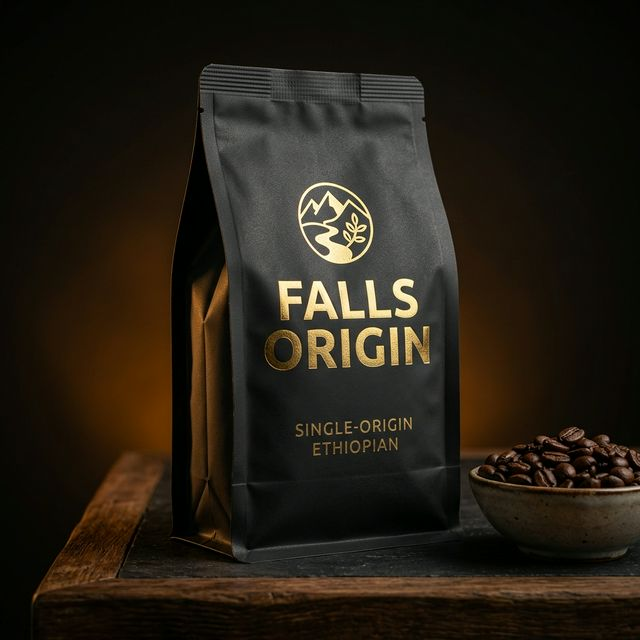
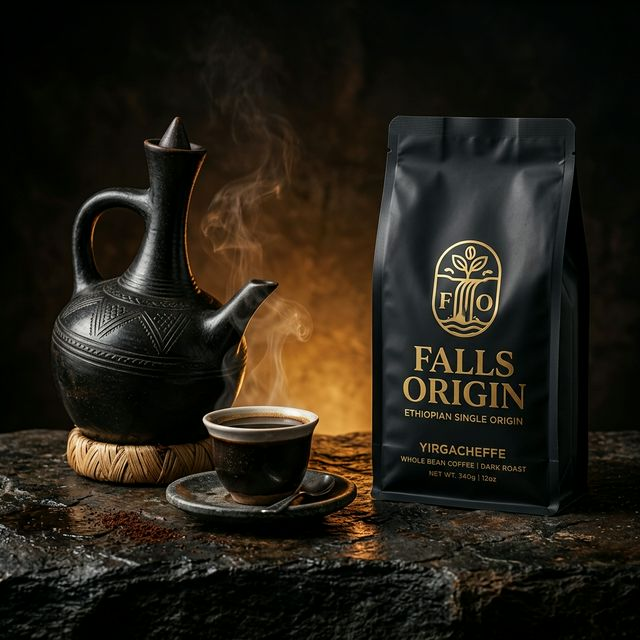
Fix: Overhaul hero section with heritage-premium composite and 2-column responsive layout.

diff --git a/assets/css/premium.css b/assets/css/premium.css
@@ -110,52 +110,64 @@ header {
     z-index: 1000;
 }
 
-/* Hero Section */
+/* Hero Section Refinement - Heritage + Premium Composite */
 .hero-section {
-    min-height: 100vh;
+    min-height: 90vh;
     display: flex;
     align-items: center;
-    padding-top: 80px;
     position: relative;
     overflow: hidden;
+    background-color: #0B0F14;
 }
 
-.hero-bg-image {
+.hero-bg-container {
     position: absolute;
-    top: 0;
-    left: 0;
+    inset: 0;
+    z-index: 0;
+}
+
+.hero-master-img {
     width: 100%;
     height: 100%;
-    background: url('../img/hero-coffee.png') center right/cover no-repeat;
-    z-index: -1;
-    filter: brightness(1.15) contrast(1.1);
-    image-rendering: auto;
+    object-fit: cover;
+    object-position: center;
+    filter: brightness(1.1) contrast(1.05);
+    opacity: 0.95;
 }
 
 .hero-overlay {
     position: absolute;
     inset: 0;
-    background: linear-gradient(to right, #0B0F14 25%, rgba(11, 15, 20, 0.4) 50%, transparent 100%);
-    z-index: 0;
+    background: radial-gradient(circle at 40% 50%, transparent 20%, rgba(11, 15, 20, 0.6) 100%),
+                linear-gradient(to right, #0B0F14 10%, transparent 50%);
+    z-index: 1;
+}
+
+.hero-layout-container {
+    position: relative;
+    z-index: 10;
+    display: flex;
+    align-items: center;
+    justify-content: flex-start;
 }
 
 .hero-content {
-    position: relative;
-    z-index: 10;
-    max-width: 650px;
+    max-width: 580px;
+    padding-right: 2rem;
 }
 
 .hero-actions {
     margin-top: 3rem;
+    display: flex;
+    gap: 1.5rem;
 }
 
 .hero-description {
     color: var(--text-secondary);
-    font-size: 1.25rem;
-    line-height: 1.7;
-    margin-bottom: 0;
-    max-width: 550px;
-    opacity: 0.9;
+    font-size: 1.2rem;
+    line-height: 1.6;
+    max-width: 500px;
+    opacity: 0.85;
 }
 
 /* Product Cards */
@@ -283,15 +295,36 @@ section {
         --section-padding: 4rem 0;
     }
     .display-title {
-        font-size: 2.5rem;
+        font-size: 2.2rem;
     }
     .hero-section {
+        min-height: 70vh;
         text-align: center;
+        padding-top: 100px;
+    }
+    .hero-bg-container {
+        position: relative;
+        height: 300px;
+        order: 2;
+    }
+    .hero-master-img {
+        object-position: center 20%;
     }
     .hero-overlay {
-        background: linear-gradient(to top, #0B0F14 60%, transparent 100%);
+        background: linear-gradient(to top, #0B0F14 20%, transparent 100%),
+                    linear-gradient(to bottom, #0B0F14 10%, transparent 40%);
+    }
+    .hero-layout-container {
+        flex-direction: column;
+        order: 1;
     }
     .hero-content {
         margin: 0 auto;
+        padding-right: 0;
+        max-width: 100%;
+        margin-bottom: 2rem;
+    }
+    .hero-actions {
+        justify-content: center;
     }
 }

diff --git a/index.php b/index.php
@@ -12,10 +12,12 @@ $featuredProduct = $products[0] ?? null;
 
 <!-- Hero Section -->
 <section class="hero-section">
-    <div class="hero-bg-image"></div>
-    <div class="hero-overlay"></div>
+    <div class="hero-bg-container">
+        <img src="assets/img/hero-coffee.png" alt="Falls Origin Heritage" class="hero-master-img">
+        <div class="hero-overlay"></div>
+    </div>
     
-    <div class="container">
+    <div class="container hero-layout-container">
         <div class="hero-content">
             <h1 class="display-title font-serif">
                 <?php echo __('hero_title_1'); ?> <span style="color: var(--accent-gold);"><?php echo __('hero_title_2'); ?></span> <br>
@@ -24,7 +26,7 @@ $featuredProduct = $products[0] ?? null;
             <p class="hero-description">
                 <?php echo __('hero_subtext'); ?>
             </p>
-            <div class="hero-actions" style="display: flex; gap: 1.5rem;">
+            <div class="hero-actions">
                 <a href="shop.php" class="btn btn-gold"><?php echo __('shop_now'); ?></a>
                 <a href="#collection" class="btn btn-outline"><?php echo __('view_collection'); ?></a>
             </div>
